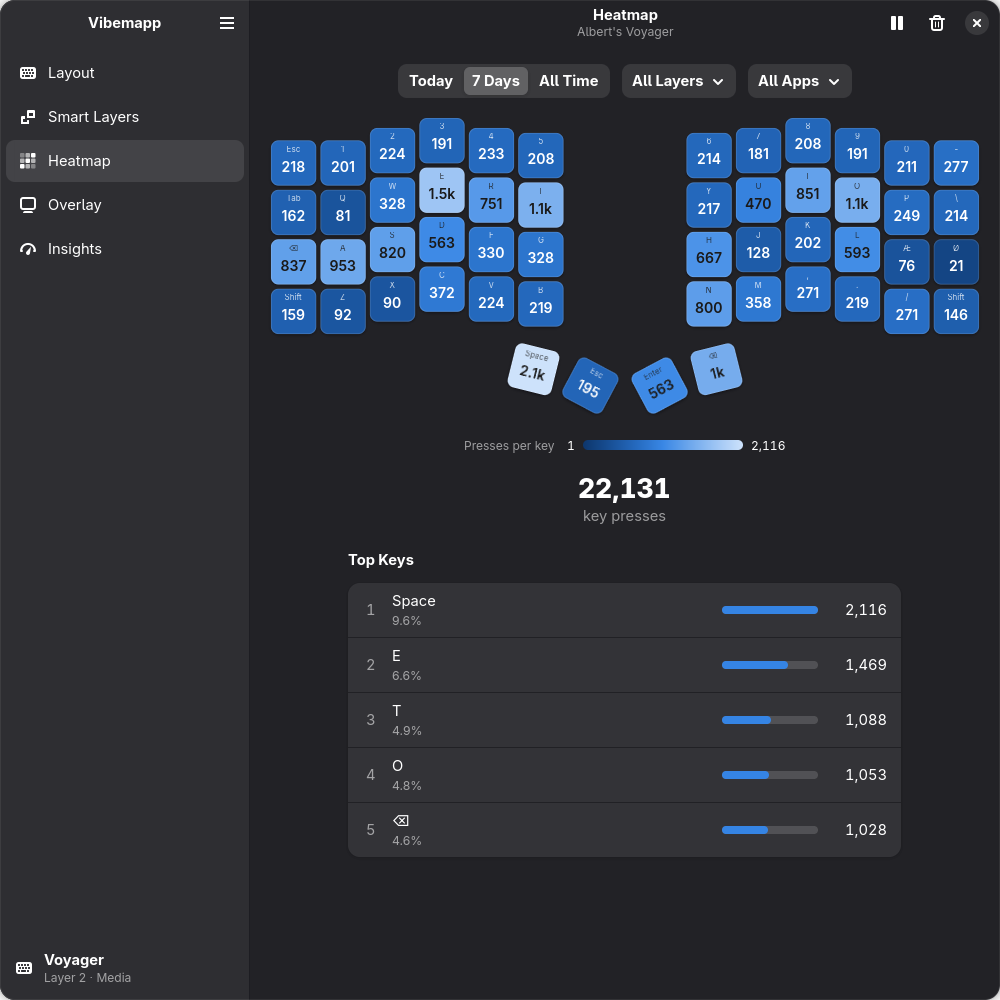
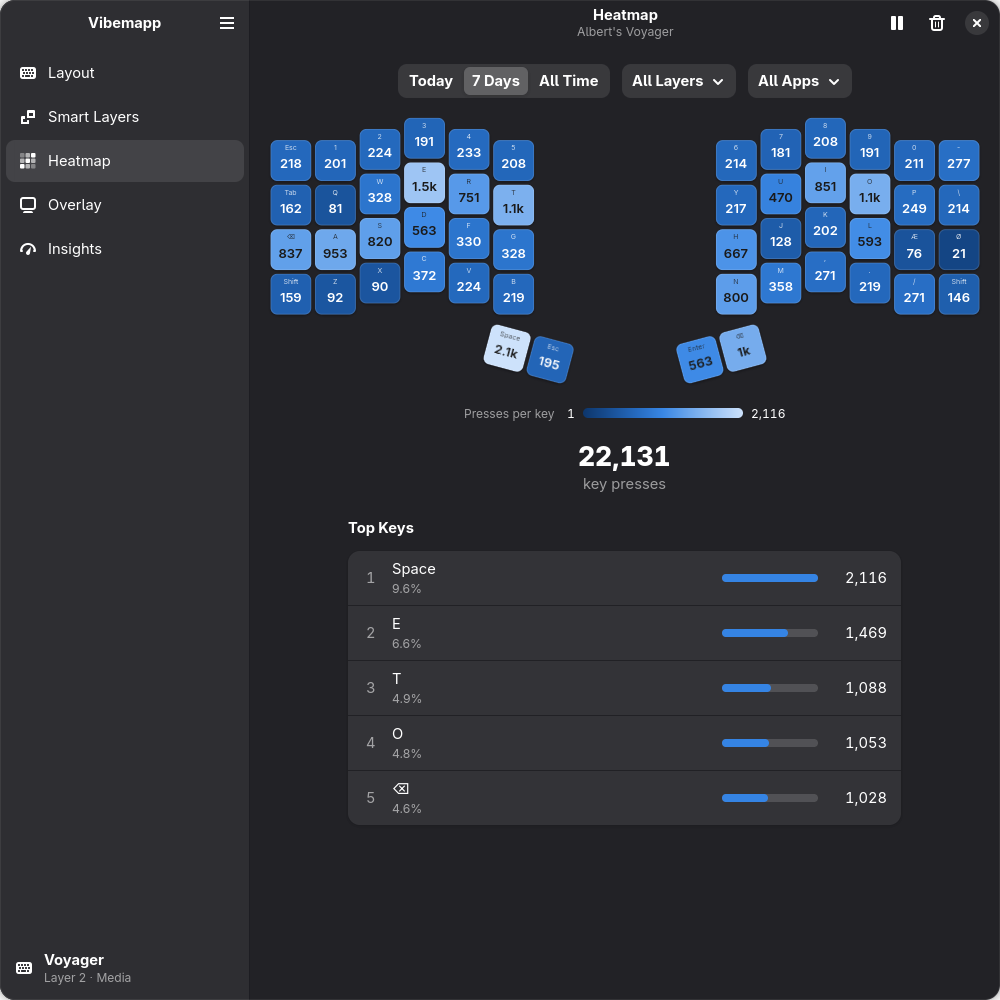
Release 1.6.3: overlay screenshot on a desktop, real thumb geometry
The mock Voyager had its own geometry with each thumb key fanned at its
own angle, so the Layout and Heatmap screenshots showed a curved thumb
cluster the real keyboard and app don't have. The mock now uses the real
Voyager geometry from geometries.py in its row-interleaved key order.

overlay-view.png is now the real layer-shell overlay over a text editor
and a terminal in sway, taken with grim. tests/ui/overlay_live.py shows
the overlay with the mock keyboard on a running compositor for that.

Claude-Session: https://claude.ai/code/session_01Bq7af74F64R8thBwAmi7hL

diff --git a/tests/ui/overlay_live.py b/tests/ui/overlay_live.py
@@ -1,0 +1,72 @@
+"""Show the real overlay (mock keyboard) on the running compositor — a dev tool, not a test.
+
+    PYTHONPATH=src python3 tests/ui/overlay_live.py [--layer 1] [--press 3,15]
+        [--size 80] [--half-spacing 0] [--opacity 60]
+
+Unlike ``screenshot.py --overlay``, this puts the real gtk4-layer-shell surfaces
+on screen, so a screenshot tool (grim) captures the overlay over real windows.
+Needs a compositor with wlr-layer-shell (Hyprland, sway). Runs until killed.
+"""
+
+from __future__ import annotations
+
+import argparse
+import os
+
+os.environ.setdefault("VIBEMAPP_MOCK", "1")
+os.environ.setdefault("VIBEMAPP_MOCK_FOCUS", "0")
+os.environ.setdefault("VIBEMAPP_MOCK_KEYS", "0")
+os.environ.setdefault("VIBEMAPP_MOCK_HOTPLUG", "0")
+os.environ.setdefault("VIBEMAPP_MEMORY_SETTINGS", "1")
+
+import vibemapp._preload  # noqa: E402,F401  (gtk4-layer-shell must load before GTK)
+import gi  # noqa: E402
+
+gi.require_version("Gtk", "4.0")
+gi.require_version("Adw", "1")
+from gi.repository import Adw, GLib  # noqa: E402
+
+from vibemapp.mock_service import MockKeyboardService  # noqa: E402
+from vibemapp.ui import overlay as overlay_mod  # noqa: E402
+from vibemapp.ui.resources import load_css  # noqa: E402
+from vibemapp.ui.settings import MemorySettings  # noqa: E402
+
+
+def main() -> int:
+    parser = argparse.ArgumentParser()
+    parser.add_argument("--layer", type=int, default=1)
+    parser.add_argument("--press", default="", help="comma-separated mock key indices")
+    parser.add_argument("--size", type=int, default=80)
+    parser.add_argument("--half-spacing", type=int, default=0)
+    parser.add_argument("--opacity", type=int, default=60)
+    args = parser.parse_args()
+
+    Adw.init()
+    load_css()
+    ctx = GLib.MainContext.default()
+    service = MockKeyboardService()
+    while service.get_connected_device() is None:
+        ctx.iteration(True)
+    service.load_layout_async(service.get_connected_device(), None, lambda *_a: None)
+    while service.get_layout() is None:
+        ctx.iteration(True)
+
+    settings = MemorySettings()
+    settings.set_string("overlay-mode", "always")
+    for key, value in (("overlay-size", args.size), ("overlay-opacity", args.opacity),
+                       ("overlay-half-spacing", args.half_spacing)):
+        settings.set_int(key, value)
+    service.simulate_layer(args.layer)
+    controller = overlay_mod.OverlayController(service, settings)
+    if not controller.available:
+        print("gtk4-layer-shell is not available here", flush=True)
+        return 1
+    controller._update()
+    presses = [int(i) for i in args.press.split(",") if i]
+    GLib.timeout_add(800, lambda: [service.simulate_key(i, True) for i in presses] and False)
+    GLib.MainLoop().run()
+    return 0
+
+
+if __name__ == "__main__":
+    raise SystemExit(main())

diff --git a/src/vibemapp/mock_service.py b/src/vibemapp/mock_service.py
@@ -52,30 +52,13 @@ def _env_flag(name: str, default: bool) -> bool:
 
 # --- simulated Voyager --------------------------------------------------------
 
-# Column stagger of the left half, outer pinky column first (key units).
-_STAGGER = (0.45, 0.45, 0.2, 0.0, 0.2, 0.3)
-_HALF_GAP = 2.4
-_ROWS = 4
-_COLS = 6
-
-
 def voyager_geometry() -> tuple[KeyGeometry, ...]:
-    """52 keys: rows interleave left (6) and right (6) halves, thumbs last."""
-    keys: list[KeyGeometry] = []
-    right_x0 = _COLS + _HALF_GAP
-    for row in range(_ROWS):
-        for col in range(_COLS):
-            keys.append(KeyGeometry(len(keys), float(col), row + _STAGGER[col]))
-        for col in range(_COLS):
-            keys.append(KeyGeometry(len(keys), right_x0 + col,
-                                    row + _STAGGER[_COLS - 1 - col]))
-    total_w = right_x0 + _COLS
-    thumbs_left = ((4.85, 4.62, 14.0), (6.0, 4.95, 28.0))
-    for x, y, rot in thumbs_left:
-        keys.append(KeyGeometry(len(keys), x, y, rotation=rot))
-    for x, y, rot in reversed(thumbs_left):
-        keys.append(KeyGeometry(len(keys), total_w - x - 1.0, y, rotation=-rot))
-    return tuple(keys)
+    """52 keys: rows interleave left (6) and right (6) halves, thumbs last.
+
+    The real Voyager geometry (``geometries``), put in the mock's key order, so
+    mock screenshots look like the app with a real keyboard."""
+    oryx = geometries.geometry_for(KeyboardModel.VOYAGER)
+    return tuple(replace(oryx[MOCK_TO_ORYX[i]], index=i) for i in range(len(oryx)))
 
 
 def _mock_to_oryx_index(i: int) -> int:

diff --git a/tests/ui/test_overlay.py b/tests/ui/test_overlay.py
@@ -108,9 +108,9 @@ class OverlayControllerTests(unittest.TestCase):
         self.assertEqual(state["anchor"], {"top": False, "bottom": True, "left": True,
                                            "right": False})
         width = self.ctl.surfaces[0].view._fixed_size[0]
-        # 80 % of the mock board's real width (14.4 u × 19.05 mm) at 4.3 px/mm.
-        self.assertAlmostEqual(width, 0.8 * 14.4 * 19.05 * 4.3, delta=2)
-        self.assertEqual(state["margin"]["left"], (3440 - width) // 2)
+        # 80 % of the Voyager's real width (16 u × 19.05 mm) at 4.3 px/mm.
+        self.assertAlmostEqual(width, 0.8 * 16 * 19.05 * 4.3, delta=2)
+        self.assertAlmostEqual(state["margin"]["left"], (3440 - width) / 2, delta=1)
 
     def test_preview_without_keyboard(self) -> None:
         self.ctl.props.preview = True

diff --git a/src/vibemapp/ui/resources.py b/src/vibemapp/ui/resources.py
@@ -46,7 +46,7 @@ def app_title() -> str:
 
 
 def version() -> str:
-    return os.environ.get("VIBEMAPP_VERSION") or "1.6.2-dev"
+    return os.environ.get("VIBEMAPP_VERSION") or "1.6.3-dev"
 
 
 _css_loaded = False

diff --git a/PROGRESS.md b/PROGRESS.md
@@ -1,6 +1,6 @@
 # Progress / handoff
 
-**Last updated:** 2026-10-30. **Latest release:** 1.6.2 (details in `CHANGELOG.md`).
+**Last updated:** 2026-10-30. **Latest release:** 1.6.3 (details in `CHANGELOG.md`).
 How things work: `docs/SPEC.md`.
 
 ## Current state
@@ -55,8 +55,9 @@ How things work: `docs/SPEC.md`.
   `tray_menu_shot.py`; heatmap with `VIBEMAPP_MOCK_HEATMAP_SEED=1 --record --size 1000x1000`; insights the same with
   `--page insights --size 1000x700`;
   overlay page with `--page overlay --overlay-layers 1,2 --size 1000x1300`; tray with `--window-visible --overlay`;
-  `overlay-view.png` is `--overlay --size 1920x1080 --width-mm 530 --layer 1 --press 3,15` cropped to
-  880x400 at (520,670)): no personal data. Dark style, blue accent, Adwaita Sans, on a Wayland
+  `overlay-view.png` is `tests/ui/overlay_live.py --layer 1 --press 3,15` (the real layer-shell overlay)
+  over GNOME Text Editor and foot, tiled in sway at 1920x1080 on the `adwaita-d` wallpaper, taken with
+  `grim`): no personal data. The mock uses the real Voyager geometry (`geometries.py`), so thumbs match the app. Dark style, blue accent, Adwaita Sans, on a Wayland
   compositor with layer-shell (else the Overlay page shows "Overlay Unavailable"). Cloud sessions
   (Ubuntu, old libadwaita) rendered them in an Ubuntu 26.04 debootstrap chroot under headless sway
   with `ADW_DEBUG_COLOR_SCHEME=prefer-dark ADW_DEBUG_ACCENT_COLOR=blue` (Ubuntu's default accent is orange).

diff --git a/.claude/skills/screenshots/SKILL.md b/.claude/skills/screenshots/SKILL.md
@@ -7,5 +7,6 @@ There is no grim or screenshot portal; GTK renders the pages off screen from the
 - Pages and dialogs: `PYTHONPATH=src python3 tests/ui/screenshot.py OUT.png [--page smart-layers|heatmap|overlay] [--dialog add-rule|preferences|…]`
 - Tray menu (private dbus-daemon, real dbusmenu layout): `PYTHONPATH=src python3 tests/ui/tray_menu_shot.py OUT.png [--state ready|no-keyboard|smart-off] [--window-visible]`
 - Overlay over a checkerboard/busy backdrop: `PYTHONPATH=src python3 tests/ui/screenshot.py OUT.png --overlay [--backdrop busy] [--half-spacing 40] [--size 1920x1080 --width-mm 530] [--layer 1] [--press 3,15] [--anchor top-right]`
+- The real overlay on a live compositor (for `grim`): `PYTHONPATH=src python3 tests/ui/overlay_live.py [--layer 1] [--press 3,15]`
 - Key tooltips (no pointer moves): `PYTHONPATH=src python3 tests/ui/tooltip_shot.py PREFIX [--layer N] KEY…`
 - Release screenshots in `data/screenshots/`: see the "Screenshots come from the mock service" decision in PROGRESS.md for the exact flags.

diff --git a/docs/SPEC.md b/docs/SPEC.md
@@ -228,7 +228,7 @@ pause and reset (confirmation dialog), and an App filter (hidden while no app ha
   under 1%), reach cost (distance from the finger's home key / finger strength) and layer-switch
   rate. Each part becomes a penalty; `score` = 100 − Σ penalties, clamped to 0..100. Contract:
   `get_ergo_report(period, app)` → `ErgoReport` (None without a finger map).
-- The mock's own Voyager geometry is row-interleaved, so it maps through `MOCK_TO_ORYX` before scoring. Report
+- The mock's Voyager geometry is the real one (`geometries.py`) in a row-interleaved key order, so it maps through `MOCK_TO_ORYX` before scoring. Report
   keys (`worst_same_finger`, which carries the `finger`) use the service's own indices, so the mock maps
   them back.
 - **Insights page** (sidebar, Ctrl+5): Finger Load only (since 1.5.0), with its own Period toggle and

diff --git a/README.md b/README.md
@@ -58,7 +58,7 @@ symbols layer key and it appears, release it and it fades out. "Always" shows it
 layer. It never takes focus, and it follows the focused monitor or stays on a fixed one.
 
 <p align="center">
-  <img src="data/screenshots/overlay-view.png" alt="The overlay on the Symbols layer over a transparent backdrop, with F3 and { pressed">
+  <img src="data/screenshots/overlay-view.png" alt="The overlay on the Symbols layer over a text editor and a terminal, with F3 and { pressed">
 </p>
 
 - **Size** is a percentage of your keyboard's real size, so it looks the same on every

diff --git a/CHANGELOG.md b/CHANGELOG.md
@@ -2,6 +2,13 @@
 
 All notable changes to Vibemapp. Each version is a tag and a GitHub release.
 
+## 1.6.3 (2026-10-30)
+
+### Changed
+- The overlay screenshot shows the overlay on a desktop, over a text editor and a terminal.
+- The simulated keyboard (`VIBEMAPP_MOCK=1`) uses the real Voyager key positions, so its thumb
+  keys sit in a straight, tilted pair as on the keyboard. The Layout and Heatmap screenshots show this.
+
 ## 1.6.2 (2026-10-30)
 
 ### Changed
